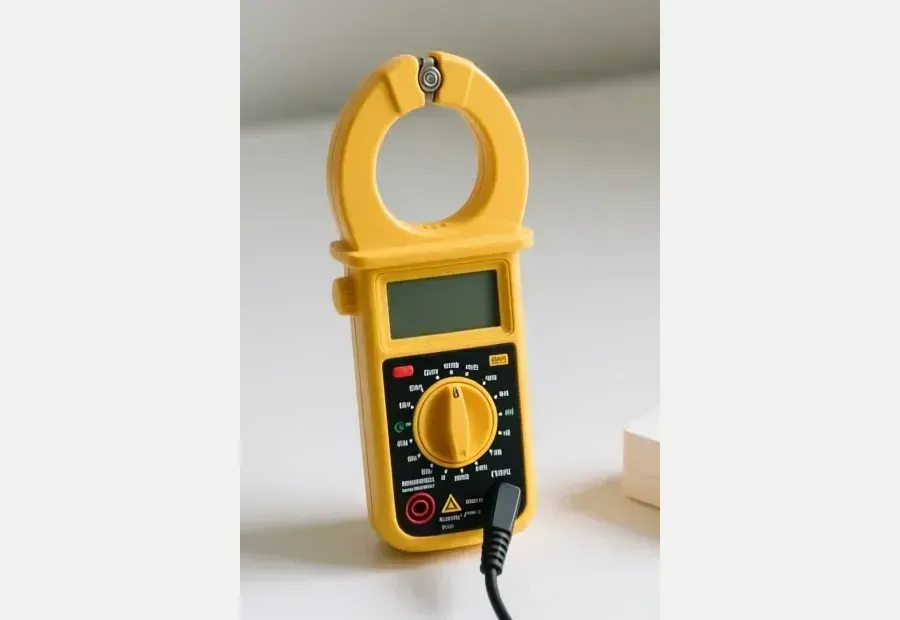
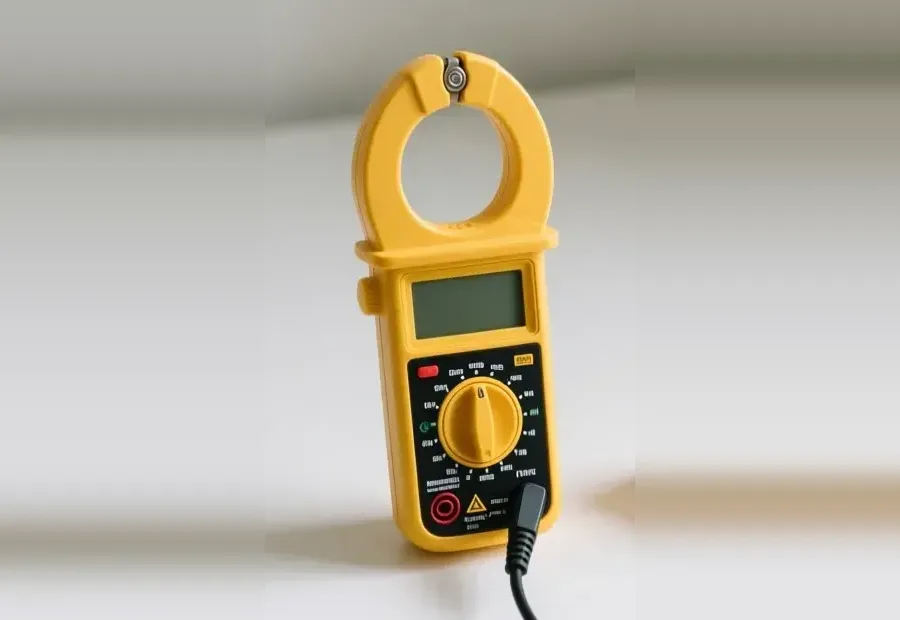
1-2 중국식 콘센트 지우기, 2-3 클램프미터 여백 자연스럽게, 다시 만들 그림 계획(v3) 정리
- 1-2: 220V 쪽 중국식 구멍 콘센트를 위아래 벽 색으로 이어 칠해 지우고, 번호 ①을 남은 콘센트로 옮김
- 2-3: 양옆 회색 여백 대신 사진 가장자리 색을 늘려 채우고 번호·화면 숫자 위치 맞춤
- picture-briefs.md: 실제 제품과 비교한 검토 결과, 다시 만들 8장(3-8·3-12·2-4 / 분전반·2-2·3-5·5-7·5-8) 프롬프트

diff --git a/content/patch12.js b/content/patch12.js
@@ -14,8 +14,8 @@ module.exports = function (P) {
   put("2-3", {
     img: "g14", imgH: "클램프미터는 이렇게 생겼어요",
     alt: "흰 책상 위에 세워 둔 노란 클램프미터. 위쪽에 둥근 집게, 가운데 화면, 아래에 다이얼이 있다",
-    screens: [[49, 48, "3.5 A"]],
-    badges: [[60, 16, "1"], [62, 44, "2"], [62, 68, "3"]],
+    screens: [[52, 48, "3.5 A"]],
+    badges: [[63, 16, "1"], [65, 44, "2"], [65, 68, "3"]],
     legend: [["1", "on", "<b>집게</b> · 선 <b>한 가닥만</b> 안에 넣어요. 두 가닥을 같이 물면 0에 가깝게 나와요"],
       ["2", "on", "<b>화면</b> · 지금 흐르는 전류(A)가 나와요"],
       ["3", "on", "<b>다이얼</b> · A~ 칸에 맞춰요"]]

diff --git a/content/p1-23.body.html b/content/p1-23.body.html
@@ -13,7 +13,7 @@
           <img src="/img/g04.webp" alt="왼쪽은 집 부엌 벽 콘센트와 냉장고 플러그, 오른쪽은 공장 벽의 빨간 산업용 콘센트와 큰 모터 기계">
           <span class="pin" style="left:24%;top:9%;background:var(--green)">우리 집 · 220V</span>
           <span class="pin" style="left:76%;top:9%">공장 · 380V</span>
-          <span class="no on" style="left:23.4%;top:40%">1</span>
+          <span class="no on" style="left:18.5%;top:42%">1</span>
           <span class="no on" style="left:41%;top:24%">2</span>
           <span class="no hot" style="left:61.8%;top:20%">3</span>
           <span class="no hot" style="left:83%;top:24%">4</span>

diff --git a/content/picture-briefs.md b/content/picture-briefs.md
@@ -35,6 +35,31 @@
 - G38(5-6 단자함)은 뺌: 5-11 장비 사진 6장으로 대신하고 5-6에서 링크.
 - Qwen이 막히면 같은 계정 Z-Image-Turbo도 한도를 같이 씀(11-21 둘 다 거절 확인).
 
+## 다시 만들기 v3 (2026-11-27 사용자 검토, 한도 풀리면 이 순서로)
+> **11-27 한도 없이 바로 고침**: 1번 G04는 중국식 콘센트를 위아래 벽 색으로 이어 칠해 지움(번호 ①을 남은 콘센트 위로 옮김) → 다시 만들 필요 없음. 10번 G14는 사진 가장자리 색을 늘린 배경으로 다시 합침 → 끝. **남은 것: A 3장(2·3·4번) + B 5장(5~9번).**
+30장을 "실제로 파는 제품·실제 설치 모습과 같은가"로 다시 봄. 판정 규칙 추가: ① 뜬 물건 없나 ② 실제 제품 모양인가 ③ 실제 설치 방식인가(선이 조리대를 가로지르는 등 위험한 모습 금지).
+모든 프롬프트 끝에 꼬리말 T, **[콘센트]** 는 v2와 같은 문장.
+
+### A. 다시 만드는 게 좋은 4장 (먼저)
+| 순서 | 그림 | 쪽 | 문제 | 새 프롬프트 (끝에 T) | 비율 | 넣는 법 |
+|---|---|---|---|---|---|---|
+| 1 | G04 왼쪽 | 1-2 | 220V 쪽 콘센트 하나가 중국식 구멍 | `A Korean apartment kitchen counter corner. Exactly one [콘센트] mounted flat on the white tiled wall above the counter, and exactly one white electric rice cooker on the counter with its plug pushed fully into the socket, the plug face flush against the socket. Tidy counter.` | 3:4 | 새 그림을 왼쪽에, 기존 g04 오른쪽(380V 모터) 절반을 붙여 한 장으로 합침(sharp). 기존 번호 위치 다시 확인 |
+| 2 | G27 | 3-8 | 선이 조리대 위를 가로질러 벽 콘센트에, 옆에 가스레인지 | `A modern Korean kitchen with exactly one black induction cooktop built flush into a white counter. Directly below it the lower cabinet door is open. On the back wall inside that cabinet, exactly one [콘센트] is mounted flat, with exactly one thick grey plug pushed fully into it, its face flush against the socket, and the grey cord rising straight up to the underside of the cooktop. Only the induction cooktop on the counter.` | 4:3 | patch10의 3-8 번호 위치 고침 |
+| 3 | G45 | 3-12 | 패널이 손바닥만 함 | `Outside view of a Korean apartment balcony under blue sky. Exactly one full-size rectangular solar panel, about as long as a person is tall, hangs on the outside of the metal balcony railing, held by sturdy metal hooks and brackets and tilted slightly upward. A small white microinverter box is fixed on the back of the panel, and one black cable runs neatly along the rail into the balcony.` | 4:3 | patch12의 3-12 번호(브래킷·선·인버터) 위치 고침 |
+| 4 | G15 | 2-4 | 라디오처럼 생김 | `On a plain grey workbench lies exactly one handheld digital insulation resistance tester: a rugged yellow and dark grey instrument shaped like a large thick multimeter, with a blank dark screen at the top, one big rotary switch in the middle, one large round push button beside the switch, and three round test lead jacks along its top edge. A red lead and a black lead are plugged into the jacks, each ending in a big metal alligator clip.` | 4:3 | patch12의 2-4 번호·화면 숫자 위치 고침 |
+
+### B. 써도 되지만 아쉬운 6장 (A가 끝나면)
+| 순서 | 그림 | 쪽 | 문제 | 새 프롬프트 (끝에 T) / 방법 | 비율 | 넣는 법 |
+|---|---|---|---|---|---|---|
+| 5 | panel | 1-3·5-1 | 전선이 빨강·검정·파랑(1-5쪽 갈색·파랑·초록노랑과 다름) | `Inside an open white home electrical distribution panel, front view. On a metal DIN rail: exactly one wide white residual current breaker with a small round blue test button on the left, and exactly four narrow white circuit breakers to its right, all levers up. Brown wires enter the top terminals, blue wires the bottom terminals, and green-and-yellow striped wires run to a brass grounding bar along the bottom.` | 3:2 | 손으로 만든 쪽 두 곳(content/p1-23.body.html 1-3, content/elb-trip.src.html 5-1)의 핀·링·번호 위치(%)를 새 그림에 맞게 다시 잼. 차단기 개수(큰 것 1 + 작은 것 4)는 그대로 맞춰야 함 |
+| 6 | G13-2 | 2-2 | 선반 위 감긴 선이 테스터와 이어졌는지 애매 | `A plain white wall with exactly one [콘센트] mounted flat at eye level. On a small white shelf below it stands exactly one yellow digital multimeter with a blank screen. A red lead and a black lead come out of the jacks at its bottom and lie neatly coiled together on the shelf right beside it, their two probe tips side by side at the front of the shelf.` | 4:3 | patch14의 링(두 구멍)·말풍선은 콘센트 위치가 바뀌면 다시 잼 |
+| 7 | G24 | 3-5 | 필름 끝이 둥글게 말림 | `Top-down view of a room floor during renovation. Wide flat thin black carbon heating film sheets with thin copper strips along both long edges lie perfectly flat side by side on silver foil insulation boards. At one short end of each sheet, small metal clamp connectors are crimped onto the copper strips, with short black cables gathering into exactly one small grey junction box by the wall.` | 16:9 | patch13의 3-5 번호 위치 고침 |
+| 8 | G39 | 5-7 | 벽지만 그을리고 콘센트는 멀쩡 | `Close-up of [콘센트] mounted flat on light beige wallpaper. Dark brown scorch marks surround both round holes on the white socket face, and the plastic around the holes is slightly melted and yellowed. A faint grey smoke stain fans upward on the wallpaper just above the socket.` | 4:3 | patch10의 5-7 번호(그을음·연기) 위치 고침 |
+| 9 | G40 | 5-8 | 감지기가 후드 옆 상부장 밑에 붙음 | `A modern white Korean kitchen. Exactly one round white smoke detector is mounted on the flat white ceiling, a little away from the cooker hood. Below on the stove, exactly one frying pan sends a thin wisp of white cooking steam rising up toward the ceiling.` | 4:3 | patch10의 5-8 번호 위치 고침 |
+| 10 | G14 | 2-3 | 잘라 채운 양옆 여백 색이 다름 | **AI 안 씀.** 원본 그림을 흐리게 늘린 배경 위에 잘라 낸 클램프미터를 얹어 다시 합침(sharp blur) | — | 한도 없이 바로 가능 |
+
+예상: 하루 약 8번 × 성공률 60% → A 4장 + B 5장(AI)은 1~2일. 10번(G14)은 아무 때나.
+
 ## 고친 프롬프트 v2 (2026-11-21) — 이것부터 쓴다
 아래 날짜별 항목의 프롬프트는 옛 버전(참고용). 만들 때는 이 표의 순서와 문장을 쓴다.
 
